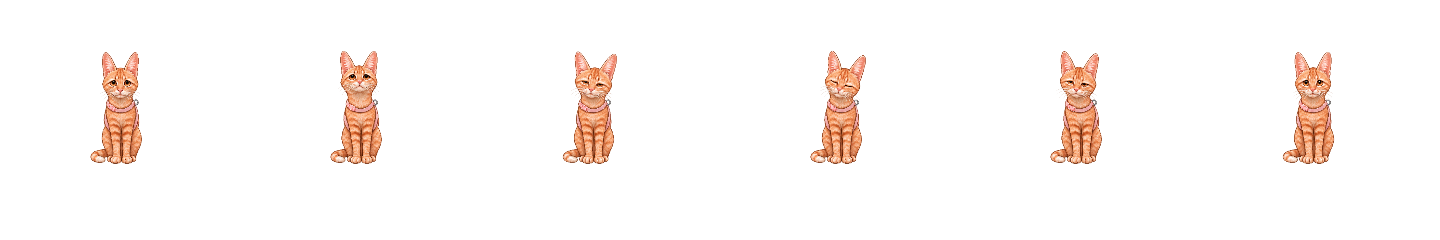
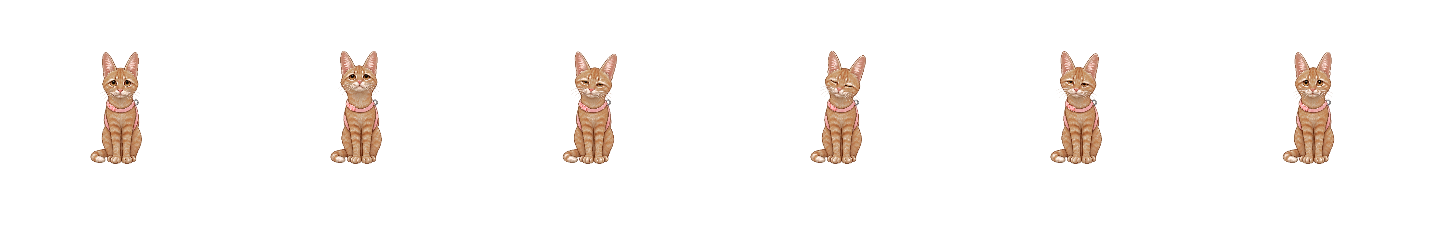
Release Jellybean v0.4.1 with consistent coat colors across actions

diff --git a/tools/AssetPack/Program.cs b/tools/AssetPack/Program.cs
@@ -24,6 +24,8 @@ internal static partial class Program
         if(args.Contains("--walk-v4-prepare")) { PrepareWalkV4(); return; }
         if(args.Contains("--walk-v4-preview")) { PreviewWalkV4(); return; }
         if(args.Contains("--walk-review")) { ExportWalkReview(); return; }
+        var walkLeft=PackApprovedWalk("walk-left","design/walk-transfer/atlas-fur-50-left.png");
+        var walkRight=PackApprovedWalk("walk-right","design/walk-transfer/atlas-fur-50.png");
         var body=Load("assets/animations/v2/turnaround.png");
         var regions=new[]{new Int32Rect(130,0,230,486),new Int32Rect(460,0,443,486),new Int32Rect(903,0,633,486),new Int32Rect(12,488,540,536),new Int32Rect(620,488,240,536),new Int32Rect(965,488,500,536)};
         var views=regions.Select(r=>Isolate(new CroppedBitmap(body,r))).ToArray();
@@ -31,18 +33,22 @@ internal static partial class Program
         for(var i=0;i<views.Length;i++)
         {
             var b=Bounds(views[i]); var s=124/b.Height;
-            Save(names[i],new[]{Draw(views[i],(b.Left+b.Right)/2,b.Bottom,s)},new[]{1000});
+            var side=i==2 || i==3;
+            var xOffset=i==2?-4:i==3?4:0;
+            Save(names[i],new[]{Draw(CoatPalette.MatchWalk(views[i]),(b.Left+b.Right)/2,b.Bottom,s,side?1.06:1,xOffset)},new[]{1000});
         }
-        PackApprovedWalk("walk-left","design/walk-transfer/atlas-fur-50-left.png");
-        PackApprovedWalk("walk-right","design/walk-transfer/atlas-fur-50.png");
-        Pack("leap-left",3,2,Enumerable.Repeat(100,6).ToArray(),sourceName:"pounce-left");
-        Pack("leap-right",3,2,Enumerable.Repeat(100,6).ToArray(),sourceName:"pounce-right");
+        Pack("leap-left",3,2,Enumerable.Repeat(100,6).ToArray(),sourceName:"pounce-left",
+            standing:walkLeft,horizontalScale:1.08,xOffset:-7,endsStanding:true);
+        Pack("leap-right",3,2,Enumerable.Repeat(100,6).ToArray(),sourceName:"pounce-right",
+            standing:walkRight,horizontalScale:1.08,xOffset:8,endsStanding:true);
         Pack("pet",3,2,new[]{380,300,260,280,300,580});
         Pack("perch",3,2,new[]{600,650,300,450,700,700});
-        Pack("stretch",3,2,new[]{200,400,500,700,500,500});
-        Pack("rest-left",3,2,new[]{100,220,240,300,250,1000},sourceName:"doze");
-        Pack("rest-window",3,2,new[]{100,220,240,300,900,900},new[]{405,405,398,324,326,325},"window-rest");
-        var held=Isolate(Load("assets/animations/v3/held.png"));
+        Pack("stretch",3,2,new[]{200,400,500,700,500,500},standing:walkLeft,endsStanding:true);
+        Pack("rest-left",3,2,new[]{100,220,240,300,250,1000},sourceName:"doze",
+            standing:walkLeft,horizontalScale:1.06,xOffset:-6);
+        Pack("rest-window",3,2,new[]{100,220,240,300,900,900},new[]{405,405,398,324,326,325},"window-rest",
+            standing:walkLeft,horizontalScale:1.04,xOffset:-4);
+        var held=CoatPalette.MatchWalk(Isolate(Load("assets/animations/v3/held.png")));
         foreach(var direction in new[]{"left","right"})
         {
             var source="leap-"+direction;
@@ -72,7 +78,7 @@ internal static partial class Program
         Console.WriteLine($"Packed {Clips.Count} clips; one anatomical scale per sheet, feet fixed at {Foot}.");
     }
 
-    private static void PackApprovedWalk(string name,string path)
+    private static BitmapSource PackApprovedWalk(string name,string path)
     {
         const int columns=4, cellWidth=480, cellHeight=352;
         var source=Load(path);
@@ -86,6 +92,7 @@ internal static partial class Program
         }).ToArray();
         Save(name,frames,WalkDurations,blendMilliseconds:0);
         Calibration.Add(new { name, scale=.5, referenceHeight=124 });
+        return frames[0];
     }
 
     private static BitmapSource Load(string path)
@@ -97,7 +104,8 @@ internal static partial class Program
         var clean=BitmapSource.Create(converted.PixelWidth,converted.PixelHeight,96,96,PixelFormats.Bgra32,null,pixels,converted.PixelWidth*4); clean.Freeze(); return clean;
     }
 
-    private static void Pack(string name,int columns,int rows,int[] durations,int[]? baselines=null,string? sourceName=null)
+    private static void Pack(string name,int columns,int rows,int[] durations,int[]? baselines=null,string? sourceName=null,
+        BitmapSource? standing=null,double horizontalScale=1,double xOffset=0,bool endsStanding=false)
     {
         var source=Load("assets/animations/v2/"+(sourceName??name)+".png");
         var padding=new (int Left,int Top)[columns*rows];
@@ -121,7 +129,11 @@ internal static partial class Program
         {
             var b=Bounds(cells[i]);
             var baseline=baselines is null?b.Bottom:baselines[i]+padding[i].Top;
-            frames.Add(Draw(cells[i],anchor+padding[i].Left-padding[0].Left,baseline,scale));
+            if(standing is not null && (i==0 || endsStanding && i==cells.Length-1))
+                frames.Add(standing);
+            else
+                frames.Add(Draw(CoatPalette.MatchWalk(cells[i]),anchor+padding[i].Left-padding[0].Left,
+                    baseline,scale,horizontalScale,xOffset));
         }
         Save(name,frames,durations);
         Calibration.Add(new{name,scale,headGap=HeadGap(cells[0])*scale,referenceHeight=first.Height*scale});
@@ -202,10 +214,11 @@ internal static partial class Program
         { var a=pixels[(y*bitmap.PixelWidth+x)*4+3]; if(a>40) {sum+=x*a;total+=a;} }
         return sum/total;
     }
-    private static BitmapSource Draw(BitmapSource source,double anchor,double baseline,double scale)
+    private static BitmapSource Draw(BitmapSource source,double anchor,double baseline,double scale,double horizontalScale=1,double xOffset=0)
     {
         var visual=new DrawingVisual(); RenderOptions.SetBitmapScalingMode(visual,BitmapScalingMode.HighQuality);
-        using(var dc=visual.RenderOpen()) dc.DrawImage(source,new Rect(Anchor-anchor*scale,Foot-baseline*scale,source.PixelWidth*scale,source.PixelHeight*scale));
+        var xScale=scale*horizontalScale;
+        using(var dc=visual.RenderOpen()) dc.DrawImage(source,new Rect(Anchor+xOffset-anchor*xScale,Foot-baseline*scale,source.PixelWidth*xScale,source.PixelHeight*scale));
         var bitmap=new RenderTargetBitmap(Width,Height,96,96,PixelFormats.Pbgra32); bitmap.Render(visual); bitmap.Freeze(); return bitmap;
     }
     private static BitmapSource Held(BitmapSource source,bool right)

diff --git a/tools/AssetPack/CoatPalette.cs b/tools/AssetPack/CoatPalette.cs
@@ -1,0 +1,67 @@
+using System;
+using System.Windows.Media;
+using System.Windows.Media.Imaging;
+
+internal static class CoatPalette
+{
+    private static readonly double[] OldLightness = [40, 90, 115, 145, 169, 188, 208, 233, 255];
+    private static readonly double[] NewLightness = [40, 96, 121, 139, 151, 164, 182, 220, 255];
+
+    public static BitmapSource MatchWalk(BitmapSource source)
+    {
+        var bgra = new FormatConvertedBitmap(source, PixelFormats.Bgra32, null, 0);
+        var stride = source.PixelWidth * 4;
+        var pixels = new byte[stride * source.PixelHeight];
+        bgra.CopyPixels(pixels, stride, 0);
+
+        for (var i = 0; i < pixels.Length; i += 4)
+        {
+            if (pixels[i + 3] == 0) continue;
+            var b = (double)pixels[i];
+            var g = (double)pixels[i + 1];
+            var r = (double)pixels[i + 2];
+            var red = r - g;
+            var yellow = g - b;
+            var lightness = .2126 * r + .7152 * g + .0722 * b;
+            // Pink hardware has very little yellow; pale whiskers and dark eyes
+            // are at the ends of the fur range and fade out of the adjustment.
+            var orange = SmoothStep((red - 14) / 34) * SmoothStep((yellow - 7) / 18);
+            var mask = orange * SmoothStep((lightness - 37) / 62) * (1 - SmoothStep((lightness - 213) / 37));
+            if (mask == 0) continue;
+
+            var target = MatchLightness(lightness);
+            var newRed = red * .62;
+            var newYellow = yellow * .86;
+            var newGreen = target - .2126 * newRed + .0722 * newYellow;
+            pixels[i] = Blend(b, newGreen - newYellow, mask);
+            pixels[i + 1] = Blend(g, newGreen, mask);
+            pixels[i + 2] = Blend(r, newGreen + newRed, mask);
+        }
+
+        var matched = BitmapSource.Create(source.PixelWidth, source.PixelHeight, 96, 96,
+            PixelFormats.Bgra32, null, pixels, stride);
+        matched.Freeze();
+        return matched;
+    }
+
+    private static double MatchLightness(double value)
+    {
+        for (var i = 1; i < OldLightness.Length; i++)
+        {
+            if (value > OldLightness[i]) continue;
+            if (i == 1 && value < OldLightness[0]) return value;
+            var t = (value - OldLightness[i - 1]) / (OldLightness[i] - OldLightness[i - 1]);
+            return NewLightness[i - 1] + t * (NewLightness[i] - NewLightness[i - 1]);
+        }
+        return value;
+    }
+
+    private static double SmoothStep(double value)
+    {
+        var t = Math.Clamp(value, 0, 1);
+        return t * t * (3 - 2 * t);
+    }
+
+    private static byte Blend(double from, double to, double t) =>
+        (byte)Math.Clamp(Math.Round(from + (to - from) * t), 0, 255);
+}

diff --git a/tests/Jellybean.Smoke/Program.cs b/tests/Jellybean.Smoke/Program.cs
@@ -208,7 +208,8 @@ internal static class Program
         using(var dc=visual.RenderOpen())
         {
             dc.DrawRectangle(new SolidColorBrush(Color.FromRgb(238,239,227)),null,new Rect(0,0,1200,650));
-            DrawText(dc,"糖豆 Jellybean · v0.3 角色与动作",36,24,24);
+            var version=typeof(SpriteCatalog).Assembly.GetName().Version!.ToString(3);
+            DrawText(dc,$"糖豆 Jellybean · v{version} 角色与动作",36,24,24);
             DrawText(dc,"实际运行素材，按 1.6 倍大小展示",36,60,13);
             var clips=new[]{"walk-left","walk-right","pet","doze","stretch","perch"};
             var labels=new[]{"向左走","向右走","摸摸","打盹","伸懒腰","背身坐坐"};

diff --git a/packaging/使用说明.md b/packaging/使用说明.md
@@ -1,8 +1,10 @@
-# 糖豆 Jellybean 0.4.0
+# 糖豆 Jellybean 0.4.1
 
 Windows 11，x64。完整解压后双击 **Jellybean.exe**，保留旁边的文件和 Assets 文件夹。
 
 从旧版更新时，先从托盘退出旧版，再运行新目录里的 Jellybean.exe。原有设置会自动读取。
+
+各个动作与视角已统一为 50 档原质感毛色。
 
 - 单击摸摸，双击开启逗猫棒；糖豆会观察、潜行，再快速扑出。再双击或按 Esc 结束。
 - 拖动时身体自然下垂并轻摆，低处放下直接站稳，高处落下才屈腿缓冲。拖到窗沿会停住，窗口移动时跟随，关闭或最小化后落下。

diff --git a/CHANGELOG.md b/CHANGELOG.md
@@ -1,5 +1,10 @@
 # 更新记录
 
+## v0.4.1
+
+- 按 50 档走路小样校准全部动作和六个视角的毛色，保留原质感和粉色背带。设置头像和程序图标同步更新。
+- 跳跃、落地、伸展和趴卧的站立衔接使用新版站姿。侧身动作按同一体型和落脚线校准，窗沿趴卧保留垂下的尾巴。
+
 ## v0.4.0
 
 - 左右行走换用已确认的整帧动作，保留身体轻晃和后爪落地，毛色为 50 档原质感。

diff --git a/README.md b/README.md
@@ -2,7 +2,7 @@
 
 纪念糖豆的 Windows 二维像素桌宠。离线运行，沿用确认的形象和粉色背带。
 
-当前试用版为 **v0.4.0**。左右走路都换成已确认的整帧步态，使用 50 档原质感毛色。[更新记录](CHANGELOG.md)
+当前试用版为 **v0.4.1**。走路、跳扑、趴卧、伸展、摸摸、拖拽和六个视角统一到 50 档原质感毛色。[更新记录](CHANGELOG.md)
 
 ## 使用
 
